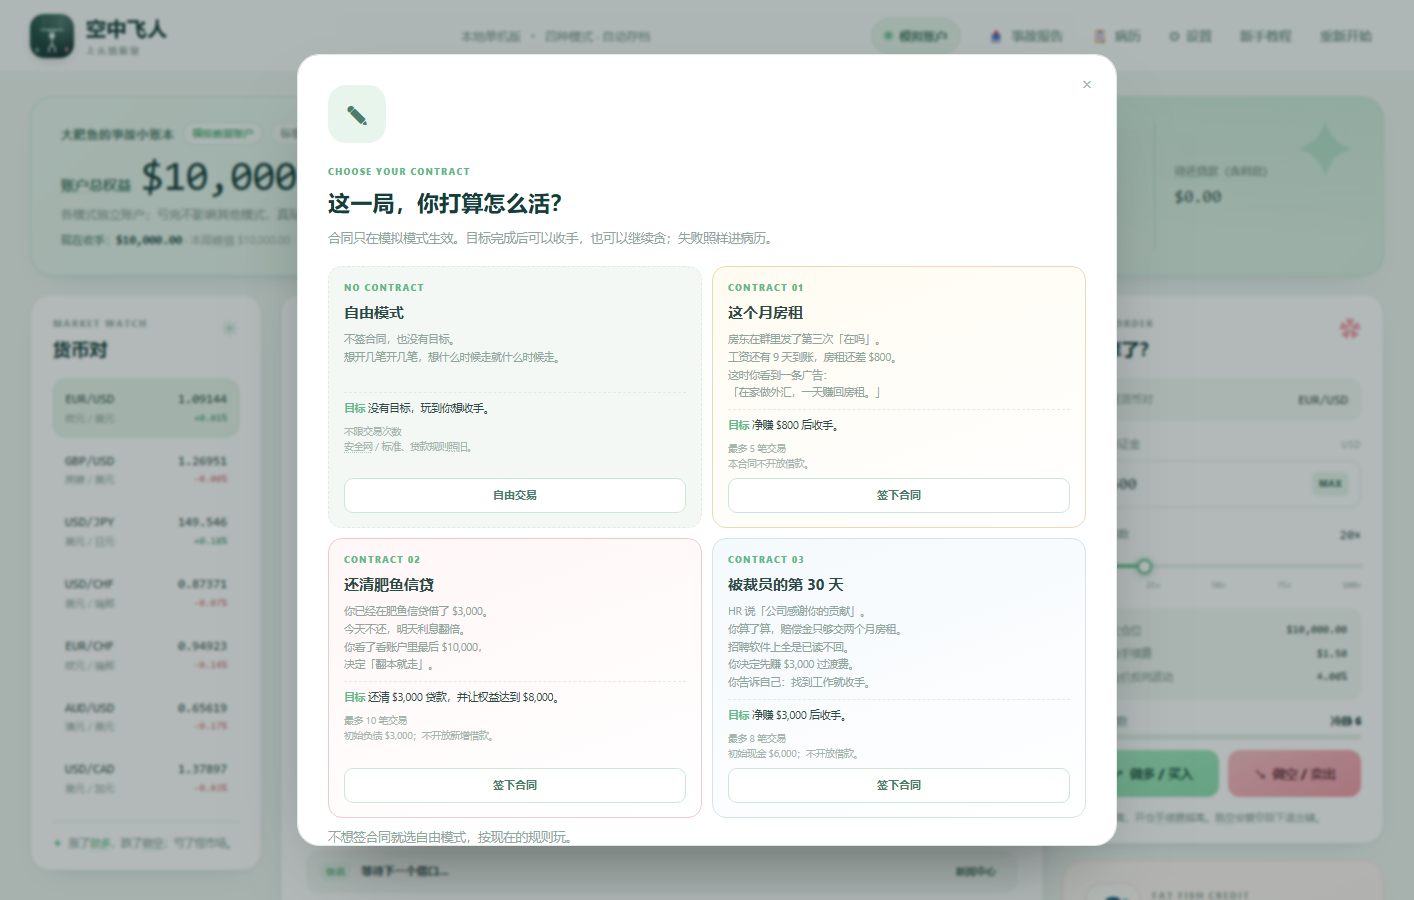
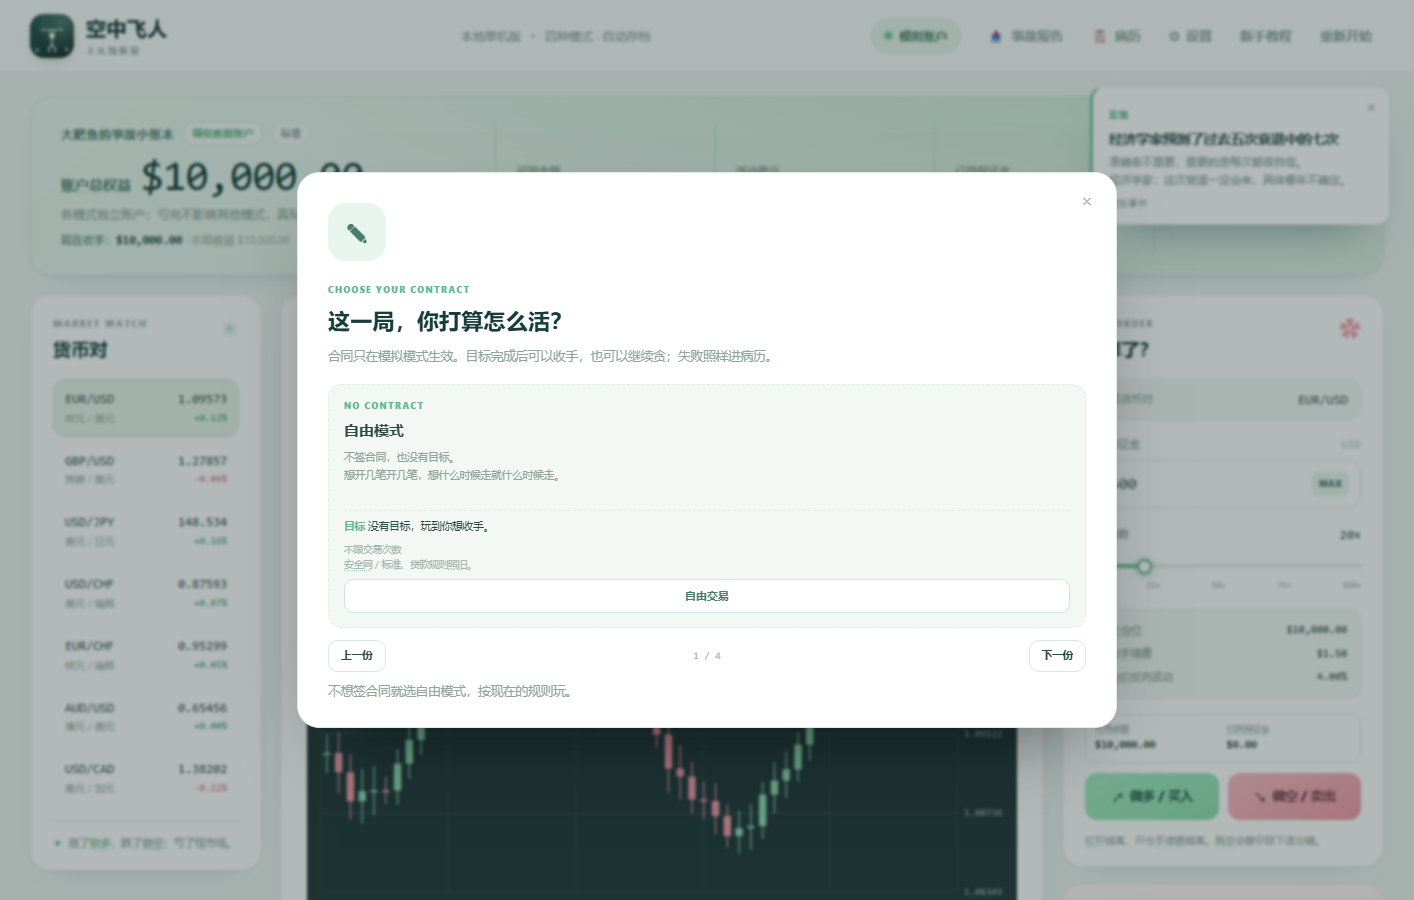
Stage 1: mobile trade bar, post-close contract events, single-card contract picker

diff --git a/ui.js b/ui.js
@@ -30,6 +30,7 @@
   let practicePending = false;
   let tutorialPractice = false;
   let tickerKey = '';
+  let contractIndex = 0;
 
   const isPlayback = () => E.state.mode === 'real' || E.state.mode === 'battle';
   const GLOSSARY_TERMS = Object.keys(D.GLOSSARY || {}).sort((a, b) => b.length - a.length);
@@ -132,6 +133,7 @@
     renderChallenge();
     renderTicker();
     renderActiveEvents();
+    syncMobileBar();
     drawChart();
     scheduleTermify();
   }
@@ -222,8 +224,23 @@
     $('repayBtn').disabled = s.mode === 'challenge' || s.debt <= 0 || closed;
   }
 
-  function renderOrder() {
+  function syncMobileBar() {
     const s = E.state;
+    $('mobileCash').textContent = D.money(s.cash);
+    const positions = s.positions.filter(pos => pos.pair === s.pair);
+    if (!positions.length) {
+      $('mobilePositionBtn').textContent = '空仓';
+    } else {
+      const pnl = positions.reduce((sum, pos) => sum + E.positionPnl(pos), 0);
+      const sameSide = positions.every(pos => pos.side === positions[0].side);
+      const direction = sameSide ? (positions[0].side === 1 ? '做多' : '做空') : '混合';
+      $('mobilePositionBtn').textContent = `${direction} ${positions.length} 笔 ${D.signedMoney(pnl)}`;
+    }
+    $('mobileLongBtn').disabled = $('longBtn').disabled;
+    $('mobileShortBtn').disabled = $('shortBtn').disabled;
+  }
+
+  function renderOrder() {    const s = E.state;
     const safe = E.isSafe();
     const maxLev = E.maxLeverage();
     const closed = !!s.runClosed;
@@ -720,6 +737,9 @@
         openContractPicker();
       }, 240);
     }
+    if (E.state.contract?.eventReady && !modalOpen && !modalQueue.length && !practicePending) {
+      setTimeout(() => E.maybeContractEvent(), 140);
+    }
   }
 
   function openRiskModal({ position, ratio, suggested }) {
@@ -950,24 +970,28 @@
   function renderContractCards() {
     const root = $('contractList');
     root.replaceChildren();
-    (D.CONTRACTS || []).forEach(item => {
-      const card = document.createElement('div');
-      card.className = `contract-card ${item.tone || ''}`;
-      card.innerHTML = `<span class="contract-kicker">${item.kicker}</span>
-        <h3>${item.title}</h3>
-        <p class="contract-bg">${item.background}</p>
-        <div class="contract-goal"><b>目标</b> ${item.goalText}</div>
-        <div class="contract-meta">${item.limitText}<br>${item.specialText}</div>
-        <button type="button" data-contract="${item.id}">${item.id === 'free' ? '自由交易' : '签下合同'}</button>`;
-      card.querySelector('button').addEventListener('click', () => selectContract(item.id));
-      root.append(card);
-    });
+    const contracts = D.CONTRACTS || [];
+    if (!contracts.length) return;
+    contractIndex = Math.max(0, Math.min(contracts.length - 1, contractIndex));
+    const item = contracts[contractIndex];
+    const card = document.createElement('div');
+    card.className = `contract-card ${item.tone || ''}`;
+    card.innerHTML = `<span class="contract-kicker">${item.kicker}</span>
+      <h3>${item.title}</h3>
+      <p class="contract-bg">${item.background}</p>
+      <div class="contract-goal"><b>目标</b> ${item.goalText}</div>
+      <div class="contract-meta">${item.limitText}<br>${item.specialText}</div>
+      <button type="button" data-contract="${item.id}">${item.id === 'free' ? '自由交易' : '签下合同'}</button>`;
+    card.querySelector('button').addEventListener('click', () => selectContract(item.id));
+    root.append(card);
+    if ($('contractProgress')) $('contractProgress').textContent = `${contractIndex + 1} / ${contracts.length}`;
     scheduleTermify();
   }
 
   function openContractPicker() {
     if (E.state.mode !== 'sim' || E.state.contract || E.state.positions.length || E.state.history.length || E.state.runClosed) return;
     if (!$('welcome').classList.contains('hidden') || !$('tutorial').classList.contains('hidden') || modalOpen) return;
+    contractIndex = 0;
     renderContractCards();
     $('contractModal').classList.remove('hidden');
     window.FXAudio?.click();
@@ -1376,6 +1400,11 @@
     };
     $('longBtn').addEventListener('click', () => submitOrder(1));
     $('shortBtn').addEventListener('click', () => submitOrder(-1));
+    $('mobileLongBtn').addEventListener('click', () => submitOrder(1));
+    $('mobileShortBtn').addEventListener('click', () => submitOrder(-1));
+    $('mobilePositionBtn').addEventListener('click', () => {
+      $('positions').scrollIntoView({ behavior: 'smooth', block: 'center' });
+    });
     $('simMode').addEventListener('click', () => { stopPractice(); E.setMode('sim'); maybeOpenContractPicker(); });
     $('realMode').addEventListener('click', () => { stopPractice(); E.setMode('real'); });
     $('battleMode').addEventListener('click', () => { stopPractice(); E.setMode('battle'); });
@@ -1668,6 +1697,16 @@
     });
 
     $('contractClose').addEventListener('click', () => selectContract('free'));
+    $('contractPrev').addEventListener('click', () => {
+      const total = (D.CONTRACTS || []).length;
+      contractIndex = (contractIndex - 1 + total) % total;
+      renderContractCards();
+    });
+    $('contractNext').addEventListener('click', () => {
+      const total = (D.CONTRACTS || []).length;
+      contractIndex = (contractIndex + 1) % total;
+      renderContractCards();
+    });
     $('contractModal').addEventListener('click', event => {
       if (event.target === $('contractModal')) selectContract('free');
     });

diff --git a/styles.css b/styles.css
@@ -643,6 +643,32 @@ html[data-theme="night"] .loan-actions button:hover:not(:disabled) { background:
 .news-float p { font-size: 11px; line-height: 1.65; color: var(--text-muted); white-space: pre-line; }
 .nf-date { display: block; margin-top: 8px; font-family: var(--font-mono); font-size: 9.5px; color: var(--text-dim); }
 
+.mobile-trade-bar { display: none; }
+@media (max-width: 720px) {
+  body { padding-bottom: 92px; }
+  .mobile-trade-bar {
+    display: grid; gap: 6px; position: fixed; left: 0; right: 0; bottom: 0; z-index: 95;
+    padding: 8px 12px calc(8px + env(safe-area-inset-bottom));
+    background: rgba(250, 252, 249, 0.97); border-top: 1px solid var(--border);
+    box-shadow: 0 -14px 32px -24px rgba(31, 65, 65, 0.45);
+  }
+  .mobile-trade-status { display: flex; align-items: center; justify-content: space-between; gap: 8px; font-size: 9px; color: var(--text-dim); }
+  .mobile-trade-status b { font-family: var(--font-mono); color: var(--text-deep); font-size: 10px; }
+  .mobile-position-btn { border: 0; background: transparent; padding: 2px 0; font-size: 9px; color: var(--accent-deep); font-weight: 800; }
+  .mobile-trade-actions { display: grid; grid-template-columns: 1fr 1fr; gap: 8px; }
+  .mobile-trade-btn { border: 0; border-radius: 10px; padding: 12px 10px; font-size: 12px; font-weight: 900; }
+  .mobile-trade-btn.long { background: var(--tint-green); color: var(--green-text); }
+  .mobile-trade-btn.short { background: var(--tint-red); color: var(--short-text); }
+  .mobile-trade-btn:disabled { opacity: 0.4; }
+  .news-float {
+    top: auto; left: 12px; right: 12px; bottom: 88px; width: auto;
+    transform: translateY(18px);
+  }
+  .news-float.show { transform: translateY(0); }
+  .toast { bottom: 96px; }
+  .narrator { left: 12px; right: 12px; bottom: 96px; width: auto; z-index: 94; }
+}
+
 /* ============ 弹窗 ============ */
 .modal-backdrop {
   position: fixed; inset: 0; z-index: 100; padding: 24px;
@@ -913,9 +939,9 @@ html[data-theme="night"] .case-badge.challenge { color: #d6ae72; background: #33
   .ach-grid { grid-template-columns: repeat(2, minmax(0, 1fr)); }
   .settings-row { gap: 10px; }
   .vol-slider { width: 110px; }
-  .news-float { top: 72px; bottom: auto; right: 10px; width: calc(100vw - 20px); }
-  .toast { bottom: 80px; }
-  .narrator { left: 12px; right: 12px; bottom: 16px; width: auto; }
+  .news-float { top: auto; bottom: 88px; left: 12px; right: 12px; width: auto; }
+  .toast { bottom: 96px; }
+  .narrator { left: 12px; right: 12px; bottom: 96px; width: auto; }
 }
 
 @media (max-width: 390px) {
@@ -982,7 +1008,10 @@ html[data-theme="night"] .case-badge.challenge { color: #d6ae72; background: #33
 .contract-kicker { font-size: 9px; letter-spacing: 0.14em; font-weight: 800; color: var(--accent-deep); }
 .contract-modal h2 { margin-top: 6px; }
 .contract-intro { margin-top: 8px; font-size: 11.5px; line-height: 1.7; color: var(--text-muted); }
-.contract-list { margin-top: 16px; display: grid; grid-template-columns: 1fr 1fr; gap: 10px; }
+.contract-list { margin-top: 16px; display: grid; grid-template-columns: 1fr; gap: 10px; }
+.contract-stepper { margin-top: 12px; display: flex; align-items: center; justify-content: space-between; gap: 10px; }
+.contract-stepper .outline-button { padding: 7px 12px; font-size: 10.5px; }
+.contract-progress { font-family: var(--font-mono); font-size: 10px; color: var(--text-dim); }
 .contract-card {
   border: 1px solid var(--border); border-radius: 14px; background: var(--surface-tint);
   padding: 14px 15px; display: flex; flex-direction: column; gap: 7px;

diff --git a/engine.js b/engine.js
@@ -119,10 +119,11 @@
   function maybeContractEvent() {
     if (!isContractActive() || state.runClosed) return null;
     const contract = state.contract;
-    if (!contract || contract.eventPending) return null;
+    if (!contract || contract.eventPending || !contract.eventReady) return null;
     const event = (contract.events || [])[contract.eventIndex];
     if (!event || (contract.trades || 0) < event.at) return null;
     contract.eventPending = true;
+    contract.eventReady = false;
     save();
     ui('showContractEvent', { event, contractTitle: contract.title, eventIndex: contract.eventIndex });
     return event;
@@ -247,6 +248,7 @@
       goalAnnounced: false,
       eventIndex: 0,
       eventPending: false,
+      eventReady: false,
       eventLog: [],
       flags: {}
     };
@@ -284,6 +286,7 @@
       state.contract.startEquity = Number.isFinite(Number(state.contract.startEquity)) ? Number(state.contract.startEquity) : account().equity;
       state.contract.eventIndex = Math.max(0, Math.floor(Number(state.contract.eventIndex) || 0));
       state.contract.eventPending = false;
+      state.contract.eventReady = false;
       state.contract.eventLog = Array.isArray(state.contract.eventLog) ? state.contract.eventLog : [];
       state.contract.flags = state.contract.flags && typeof state.contract.flags === 'object' ? state.contract.flags : {};
     }
@@ -534,7 +537,6 @@
       else if (state.leverage >= 100) narrate('100 倍。安全网？这里没有那种东西。');
       else if (state.leverage >= 50) narrate('这个高度，风有点大。');
     }
-    maybeContractEvent();
     return position;
   }
 
@@ -573,6 +575,10 @@
     else if (pnl > 0) narrate('赚钱了。比亏损更危险的是，你开始觉得自己行了。');
     else narrate('亏损平仓。至少你还有「重新开始」。');
     const bankruptNow = !state.positions.length && state.mode !== 'challenge' && (state.cash < 0 || account().equity <= 0);
+    if (!bankruptNow && isContractActive()) {
+      state.contract.eventReady = true;
+      save();
+    }
     if (bankruptNow) {
       checkBankruptcy();
     } else {
@@ -1751,6 +1757,7 @@
     contractStatus,
     contractBlocked,
     contractNoLoans,
+    maybeContractEvent,
     resolveContractEvent,
     setDifficulty,
     setNickname,

diff --git a/index.html b/index.html
@@ -203,6 +203,17 @@
   <div id="toast" class="toast" role="status" aria-live="polite"></div>
   <div id="narrator" class="narrator" role="status" aria-live="polite"><span>🎙 旁白</span><p id="narratorText"></p></div>
 
+  <div id="mobileTradeBar" class="mobile-trade-bar">
+    <div class="mobile-trade-status">
+      <span>可用余额 <b id="mobileCash">$10,000.00</b></span>
+      <button id="mobilePositionBtn" class="mobile-position-btn" type="button">空仓</button>
+    </div>
+    <div class="mobile-trade-actions">
+      <button id="mobileLongBtn" class="mobile-trade-btn long" type="button">做多</button>
+      <button id="mobileShortBtn" class="mobile-trade-btn short" type="button">做空</button>
+    </div>
+  </div>
+
   <div id="newsFloat" class="news-float" role="status">
     <button id="newsFloatClose" class="nf-close" aria-label="关闭快讯" type="button">×</button>
     <span class="nf-tag" id="nfTag">快讯</span><h4 id="nfTitle"></h4><p id="nfBody"></p><span class="nf-date" id="nfDate"></span>
@@ -393,6 +404,11 @@
       <h2 id="contractTitle">这一局，你打算怎么活？</h2>
       <p class="contract-intro">合同只在模拟模式生效。目标完成后可以收手，也可以继续贪；失败照样进病历。</p>
       <div id="contractList" class="contract-list"></div>
+      <div class="contract-stepper">
+        <button id="contractPrev" class="outline-button" type="button">上一份</button>
+        <span id="contractProgress" class="contract-progress">1 / 4</span>
+        <button id="contractNext" class="outline-button" type="button">下一份</button>
+      </div>
       <p class="contract-note">不想签合同就选自由模式，按现在的规则玩。</p>
     </div>
   </div>

diff --git a/README.md b/README.md
@@ -43,6 +43,8 @@ node server.js
 
 练习期间，下单面板会出现一条“第一次试水”提示，告诉你每一步做什么。进阶交易（止损/止盈）默认关闭，不会一上来就塞两个价格输入框。
 
+手机端底部常驻交易条：可用余额、当前持仓浮盈、做多、做空，不用滚回下单区。
+
 ![新手练习](screenshots/onboarding-practice.png)
 
 ## 昵称
@@ -129,11 +131,15 @@ node server.js
 | 还清肥鱼信贷 | 还清 $3,000，并让权益达到 $8,000 | 最多 10 笔交易，初始负债 $3,000 |
 | 被裁员的第 30 天 | 净赚 $3,000 | 初始现金 $6,000，最多 8 笔交易，不开放借款 |
 
-合同中途会触发事件，选择会影响现金、债务和利率。比如房东催租、朋友结婚随礼、HR 约谈、面试、父母来电。
+合同选择改成一次只显示一张，用「上一份 / 下一份」翻页，手机上不用再滚四张大卡。
+
+合同事件改成**平仓并关闭结果弹窗后**触发，选择会影响现金、债务和利率。比如房东催租、朋友结婚随礼、HR 约谈、面试、父母来电。
 
 账户卡上会显示合同、目标进度和已用交易次数。目标完成后可以收手，也可以继续贪；结算会记录合同完成情况和评级（S/A/B/C/D）。
 
 ![开局合同](screenshots/contracts.png)
+
+![手机底部交易条](screenshots/mobile-trade-bar.png)
 
 ![合同事件](screenshots/contract-event.png)
 
